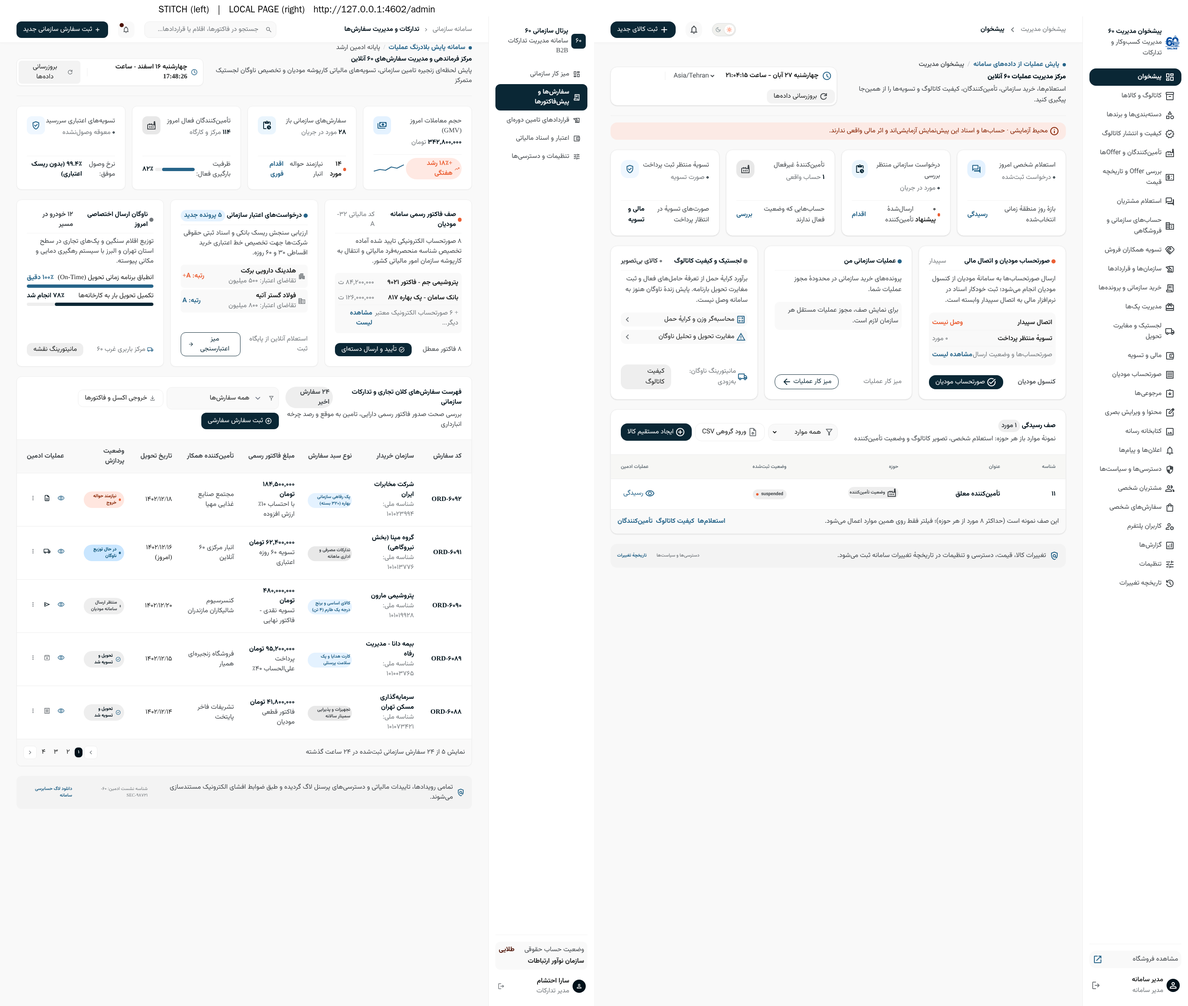
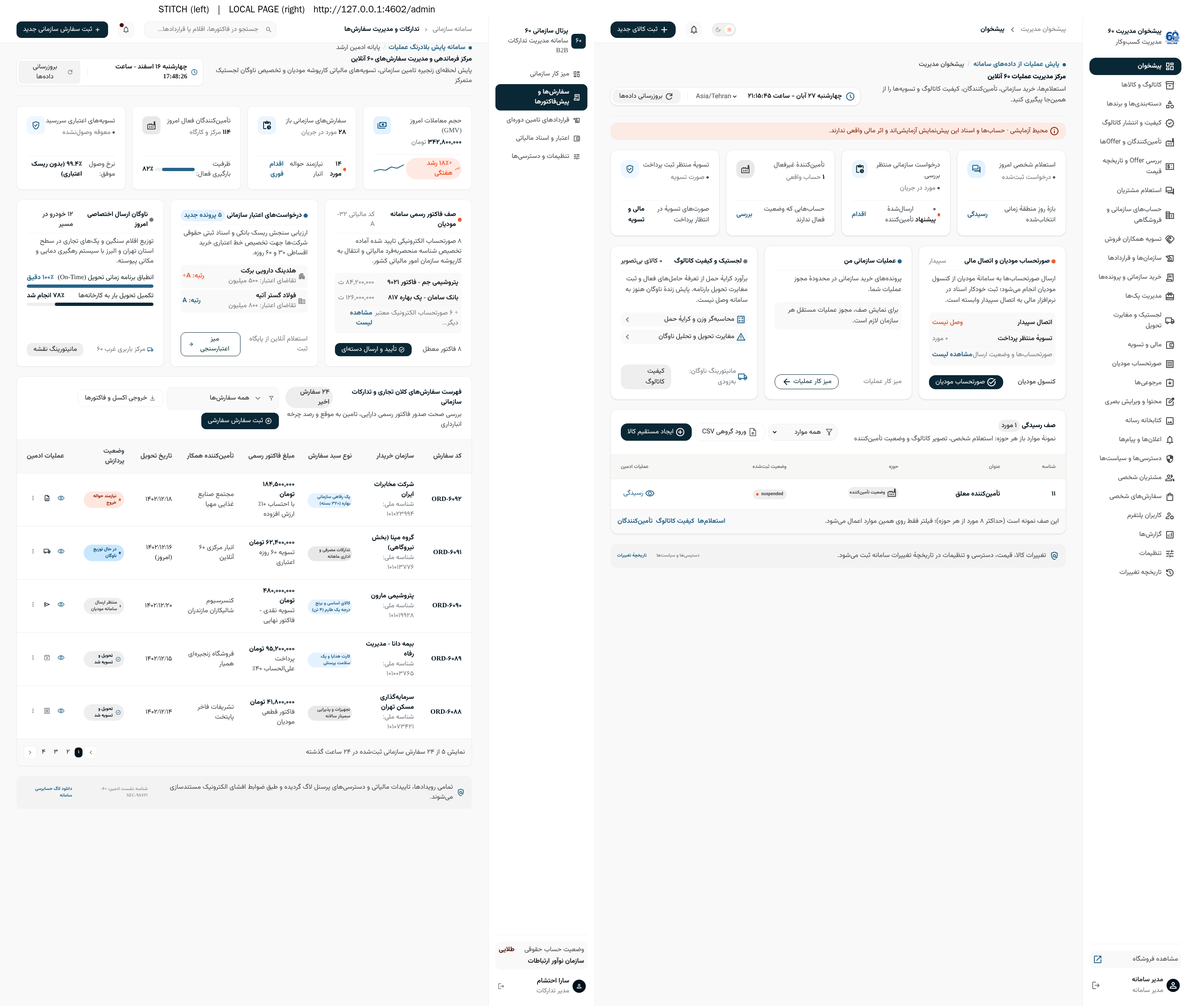
feat(admin): /admin/logistics analytics shell (36/38) over real carrier tariffs; E.md evidence + notes
Claude-Session: https://claude.ai/code/session_013GiGkgdKG9YqrG8eBeSx1H

Changed region(s): [[0.9062, 0.0311, 1.0, 0.5918]]

diff --git a/frontend/src/components/admin/AdminLogistics.tsx b/frontend/src/components/admin/AdminLogistics.tsx
@@ -1,0 +1,118 @@
+"use client";
+// Logistics analytics — Stitch screens 36 (supply-chain reports) and 38 (fleet error dashboard).
+// Real data: GET /admin/carriers/tariffs (carrier tariff table). Delivery-discrepancy cases are produced as
+// printable reports in the seller panel and are NOT stored by the backend, so every discrepancy/OTIF/damage
+// metric, trend and root-cause chart here is an honest «بهزودی» state — never a sample number.
+import { useEffect, useState } from "react";
+import Link from "next/link";
+import { apiRequest } from "@/lib/api";
+import { useAuth } from "@/lib/auth-context";
+import { formatPrice, toPersianNum } from "@/lib/utils";
+
+type Tariff = { id: number; provider_code: string; service_level: string; name_fa: string; base_minor: number; per_kg_minor: number;
+  transit_days_min: number; transit_days_max: number; is_active: number; supports_cod: number; max_weight_g: number | null; zones?: unknown[] };
+const LEVEL_FA: Record<string, string> = { same_day: "همان روز", express: "سریع", economy: "اقتصادی" };
+const Icon = ({ name, className = "" }: { name: string; className?: string }) => <span aria-hidden="true" className={`material-symbols-outlined ${className}`}>{name}</span>;
+const card = "rounded-xl border border-st-surface-container bg-st-surface-container-lowest p-st-space-lg shadow-sm";
+const Soon = ({ children }: { children: React.ReactNode }) => <span className="inline-flex items-center gap-1 rounded-full bg-st-surface-container-high px-2 py-0.5 text-st-label-sm font-bold text-st-on-surface-variant"><Icon name="hourglass_top" className="text-[14px]" />{children}</span>;
+
+export default function AdminLogistics() {
+  const { token } = useAuth();
+  const [tariffs, setTariffs] = useState<Tariff[] | null>(null), [err, setErr] = useState<string | null>(null), [retry, setRetry] = useState(0);
+  useEffect(() => {
+    if (!token) return;
+    let off = false; setTariffs(null); setErr(null);
+    apiRequest<{ tariffs: Tariff[] }>("/admin/carriers/tariffs", { token, cache: "no-store" })
+      .then((r) => { if (!off) setTariffs(Array.isArray(r.tariffs) ? r.tariffs : []); })
+      .catch((e: unknown) => { if (!off) setErr(e instanceof Error ? e.message : "دریافت تعرفهها ناموفق بود."); });
+    return () => { off = true; };
+  }, [token, retry]);
+  const active = tariffs?.filter((t) => t.is_active) ?? [];
+  const carriers = new Set(active.map((t) => t.provider_code));
+  const kpis = [
+    { t: "تعرفههای فعال حامل", v: tariffs ? toPersianNum(active.length) : "…", u: "تعرفه", i: "receipt_long", tone: "bg-st-secondary-fixed/50 text-st-secondary", foot: <span className="text-st-on-surface-variant">از {tariffs ? toPersianNum(tariffs.length) : "…"} تعرفهٔ ثبتشده</span> },
+    { t: "حاملهای دارای تعرفه", v: tariffs ? toPersianNum(carriers.size) : "…", u: "حامل", i: "local_shipping", tone: "bg-st-primary-fixed/40 text-st-primary-container", foot: <Link href="/logistics/estimate" className="font-bold text-st-secondary hover:underline">محاسبهگر کرایه</Link> },
+    { t: "نرخ مغایرت بارنامه و آسیب", v: "—", u: "", i: "rule", tone: "bg-st-surface-container-high text-st-on-surface-variant", foot: <Soon>بهزودی — ثبت پرونده در سرور</Soon> },
+    { t: "تحویل سالم و بهموقع (OTIF)", v: "—", u: "", i: "verified", tone: "bg-st-tertiary-fixed/60 text-st-on-tertiary-fixed-variant", foot: <Soon>بهزودی</Soon> },
+  ];
+  return <div className="flex w-full flex-col gap-st-space-lg text-base">
+    <div className="flex flex-col justify-between gap-st-space-md rounded-xl border border-st-surface-container bg-st-surface-container-lowest p-st-space-lg shadow-sm lg:flex-row lg:items-start">
+      <div className="flex items-start gap-st-space-sm">
+        <div className="flex h-10 w-10 shrink-0 items-center justify-center rounded-xl bg-st-primary-container text-st-on-primary"><Icon name="monitoring" /></div>
+        <div className="flex flex-col gap-st-space-xs">
+          <div className="flex flex-wrap items-center gap-st-space-sm"><h1 className="font-black text-st-primary">تحلیل عملکرد لجستیک و نرخ مغایرت تحویل</h1><Soon>تحلیل خودکار بهزودی</Soon></div>
+          <p className="max-w-3xl text-st-on-surface-variant">تعرفههای حاملها از سامانه خوانده میشود. گزارشهای مغایرت تحویل فعلاً در پنل فروشنده بهصورت PDF ساخته میشوند و در سرور ذخیره نمیشوند؛ شاخصها و نمودارهای مغایرت پس از ثبت پروندهها فعال میشوند.</p>
+        </div>
+      </div>
+      <div className="flex flex-wrap items-center gap-st-space-sm">
+        <button type="button" onClick={() => setRetry((x) => x + 1)} className="flex items-center gap-st-space-xs rounded-xl border border-st-surface-container px-st-space-md py-2 text-st-on-surface hover:bg-st-surface"><Icon name="refresh" className="text-[18px] text-st-outline" />بروزرسانی</button>
+        <Link href="/logistics/estimate" className="flex items-center gap-st-space-xs rounded-xl bg-st-primary-container px-st-space-md py-2 text-st-on-primary hover:bg-st-secondary"><Icon name="calculate" className="text-[18px]" />محاسبهگر وزن و کرایه</Link>
+      </div>
+    </div>
+
+    <section aria-label="شاخصهای لجستیک" className="grid grid-cols-1 gap-st-space-md md:grid-cols-2 xl:grid-cols-4">
+      {kpis.map((k) => <div key={k.t} className={`${card} flex flex-col justify-between`}>
+        <div className="flex items-start justify-between">
+          <div className="flex flex-col gap-st-space-xs"><span className="text-st-on-surface-variant">{k.t}</span>
+            <div className="flex items-baseline gap-st-space-xs"><span className="text-st-headline-lg font-extrabold text-st-primary">{k.v}</span><span className="text-st-outline">{k.u}</span></div></div>
+          <div className={`flex h-11 w-11 items-center justify-center rounded-xl ${k.tone}`}><Icon name={k.i} className="text-[24px]" /></div>
+        </div>
+        <div className="mt-st-space-md flex items-center justify-between border-t border-st-surface-container-low pt-st-space-sm text-st-label-md">{k.foot}</div>
+      </div>)}
+    </section>
+
+    <div className="grid grid-cols-1 gap-st-space-md lg:grid-cols-12">
+      <section className={`${card} lg:col-span-7`} aria-labelledby="trend-t">
+        <div className="flex items-start justify-between"><div><h2 id="trend-t" className="font-bold text-st-primary">روند هفتگی نرخ مغایرت و انطباق SLA</h2><p className="text-st-label-md text-st-on-surface-variant">مقایسهٔ نرخ مغایرت بارنامه با سقف مجاز</p></div><Soon>بهزودی</Soon></div>
+        <div className="mt-st-space-md flex h-56 flex-col items-center justify-center gap-st-space-xs rounded-xl border border-dashed border-st-outline-variant bg-st-surface-container-low text-center text-st-on-surface-variant">
+          <Icon name="bar_chart" className="text-[36px] text-st-outline" /><span>دادهای برای رسم روند وجود ندارد.</span><span className="text-st-label-md">پروندههای مغایرت هنوز در سامانه ثبت نمیشوند.</span></div>
+      </section>
+      <section className={`${card} lg:col-span-5`} aria-labelledby="cause-t">
+        <div className="flex items-start justify-between"><div><h2 id="cause-t" className="font-bold text-st-primary">توزیع ساختار علل مغایرت و آسیب</h2><p className="text-st-label-md text-st-on-surface-variant">کسری، آسیبدیده، اشتباه ارسالی، مازاد</p></div><Soon>بهزودی</Soon></div>
+        <div className="mt-st-space-md flex items-center gap-st-space-lg">
+          <div className="relative flex h-36 w-36 shrink-0 items-center justify-center rounded-full border-[14px] border-st-surface-container"><span className="text-center text-st-label-md text-st-outline">بدون داده</span></div>
+          <ul className="flex flex-1 flex-col gap-st-space-xs">{["کسری محموله", "آسیبدیدگی فیزیکی", "اشتباه ارسالی", "مازاد"].map((x) =>
+            <li key={x} className="flex items-center justify-between rounded-lg bg-st-surface-container-low px-st-space-sm py-st-space-xs"><span className="flex items-center gap-1"><span className="h-2.5 w-2.5 rounded-full bg-st-outline-variant" />{x}</span><b className="text-st-outline">—</b></li>)}</ul>
+        </div>
+      </section>
+    </div>
+
+    <section className={card} aria-labelledby="flow-t">
+      <div className="flex items-center gap-st-space-sm"><div className="flex h-10 w-10 items-center justify-center rounded-xl bg-st-primary text-st-on-primary"><Icon name="route" /></div>
+        <div><h2 id="flow-t" className="font-bold text-st-primary">جریان فعلی اسناد لجستیک</h2><p className="text-st-label-md text-st-on-surface-variant">آنچه امروز در سامانه کار میکند</p></div></div>
+      <div className="mt-st-space-md grid grid-cols-1 gap-st-space-md md:grid-cols-3">
+        {[["description", "حوالهٔ خروج و بارنامه (A4)", "فروشنده از «ارسال سفارشها» در پنل فروش، برگهٔ رسمی را از برچسب مرسوله چاپ میکند."],
+          ["fact_check", "برگهٔ تحویل راننده", "چکلیست موبایلی اقلام، تماس با گیرنده و بارکد رهگیری؛ وضعیت را در سرور تغییر نمیدهد."],
+          ["report_problem", "پروندهٔ مغایرت تحویل", "شمارش تحویل، علت مغایرت و تصویر بارنامه → صورتجلسهٔ PDF. ذخیرهٔ سروری و تحلیل: بهزودی."]].map(([i, t, d]) =>
+          <div key={t} className="flex flex-col gap-st-space-xs rounded-xl bg-st-surface-container-low p-st-space-md"><span className="flex items-center gap-st-space-xs font-bold text-st-primary"><Icon name={i} className="text-st-secondary" />{t}</span><p className="text-st-label-md leading-6 text-st-on-surface-variant">{d}</p></div>)}
+      </div>
+    </section>
+
+    <section className="flex flex-col overflow-hidden rounded-xl border border-st-surface-container bg-st-surface-container-lowest shadow-sm" aria-labelledby="tariff-t" aria-busy={!tariffs && !err}>
+      <div className="flex flex-col justify-between gap-st-space-sm border-b border-st-surface-container p-st-space-lg sm:flex-row sm:items-center">
+        <div><h2 id="tariff-t" className="font-extrabold text-st-primary">جدول تعرفهها و سطح خدمت حاملها</h2><p className="text-st-label-md text-st-on-surface-variant">مبنای برآورد کرایه در محاسبهگر و صدور برچسب ارسال (قیمتها پیش از حاشیه و هزینههای جانبی)</p></div>
+        {tariffs && <span className="rounded-full bg-st-surface-container px-2 py-0.5 font-bold text-st-on-surface-variant">{toPersianNum(tariffs.length)} تعرفه</span>}
+      </div>
+      {err ? <div role="alert" className="flex flex-col items-start gap-st-space-sm p-st-space-lg"><b className="text-st-error">تعرفهها دریافت نشد</b><p className="text-st-on-surface-variant">{err}</p>
+        <button type="button" onClick={() => setRetry((x) => x + 1)} className="rounded-xl border border-st-surface-container px-st-space-md py-st-space-xs">تلاش دوباره</button></div>
+        : <div className="overflow-x-auto"><table className="w-full border-collapse text-right">
+          <thead><tr className="border-b border-st-surface-container bg-st-surface text-st-on-surface-variant">
+            {["حامل و سرویس", "سطح خدمت", "کرایهٔ پایه", "هر کیلوگرم", "زمان تحویل", "مناطق ویژه", "پرداخت در محل", "وضعیت"].map((h) => <th key={h} className="px-st-space-md py-st-space-md font-bold">{h}</th>)}</tr></thead>
+          <tbody className="divide-y divide-st-surface-container">
+            {!tariffs ? <tr><td colSpan={8} role="status" className="px-st-space-lg py-st-space-xl text-center text-st-on-surface-variant">در حال دریافت تعرفهها…</td></tr>
+              : tariffs.length === 0 ? <tr><td colSpan={8} className="px-st-space-lg py-st-space-xl text-center text-st-on-surface-variant">تعرفهای ثبت نشده است.</td></tr>
+              : tariffs.map((t) => <tr key={t.id} className="transition-colors hover:bg-st-surface/60">
+                <td className="px-st-space-md py-st-space-md"><div className="flex items-center gap-st-space-sm"><span className="flex h-9 w-9 items-center justify-center rounded-lg bg-st-surface-container text-st-primary"><Icon name="local_shipping" className="text-[20px]" /></span>
+                  <div className="flex flex-col"><b className="text-st-primary">{t.name_fa}</b><span className="text-st-label-sm text-st-outline" dir="ltr">{t.provider_code}</span></div></div></td>
+                <td className="px-st-space-md py-st-space-md">{LEVEL_FA[t.service_level] ?? t.service_level}</td>
+                <td className="px-st-space-md py-st-space-md font-bold text-st-primary">{formatPrice(t.base_minor)}</td>
+                <td className="px-st-space-md py-st-space-md">{formatPrice(t.per_kg_minor)}</td>
+                <td className="px-st-space-md py-st-space-md">{t.transit_days_max === 0 ? "همان روز" : `${toPersianNum(t.transit_days_min)} تا ${toPersianNum(t.transit_days_max)} روز`}</td>
+                <td className="px-st-space-md py-st-space-md text-st-on-surface-variant">{toPersianNum(t.zones?.length ?? 0)} منطقه</td>
+                <td className="px-st-space-md py-st-space-md">{t.supports_cod ? <Icon name="check_circle" className="text-[20px] text-st-secondary" /> : <span className="text-st-outline">—</span>}</td>
+                <td className="px-st-space-md py-st-space-md"><span className={`rounded-full px-st-space-sm py-1 text-st-label-sm font-bold ${t.is_active ? "bg-st-secondary-fixed/60 text-st-secondary" : "bg-st-surface-container text-st-on-surface-variant"}`}>{t.is_active ? "فعال" : "غیرفعال"}</span></td>
+              </tr>)}
+          </tbody></table></div>}
+    </section>
+  </div>;
+}

diff --git a/frontend/src/components/admin/AdminShell.tsx b/frontend/src/components/admin/AdminShell.tsx
@@ -44,7 +44,7 @@ export function AdminShell({children}:{children:React.ReactNode}) {
     <div className="flex items-center justify-between gap-st-space-sm px-st-space-xs">
      <Link href="/admin" onClick={go} className="flex items-center gap-st-space-sm">
       <span className="flex h-9 w-9 items-center justify-center overflow-hidden rounded-lg bg-st-surface-container-lowest"><NextImage src="/brand/60online-mark.png" width={36} height={34} alt="" unoptimized/></span>
-      <span className="flex flex-col"><span className="font-bold text-st-primary">پیشخوان مدیریت ۶۰</span><span className="text-st-on-surface-variant">مدیریت کسبوکار و تدارکات</span></span>
+      <span className="flex flex-col"><span className="font-bold text-st-primary">پیشخوان مدیریت ۶۰</span><span className="text-st-on-surface-variant">مدیریت کسبوکار</span></span>
      </Link>
      <button onClick={()=>setOpen(false)} aria-label="بستن منو" className="flex h-9 w-9 items-center justify-center rounded-xl bg-st-surface text-st-on-surface-variant lg:hidden"><Icon name="close" className="text-[20px]"/></button>
     </div>

diff --git a/frontend/src/app/admin/logistics/page.tsx b/frontend/src/app/admin/logistics/page.tsx
@@ -1,0 +1,3 @@
+import AdminLogistics from "@/components/admin/AdminLogistics";
+export const metadata={title:"لجستیک و مغایرت تحویل | 60Online",robots:{index:false,follow:false}};
+export default function Page(){return <AdminLogistics/>;}

diff --git a/docs/design/stitch-impl-2026-11-18/E.md b/docs/design/stitch-impl-2026-11-18/E.md
@@ -1,0 +1,48 @@
+# Group E — admin dashboard + logistics documents (Stitch faithful rebuild, 2026-11-18)
+
+Branch `redesign/e-admin-logistics` (base 1aa1dba, foundation c55e50b). Evidence: `E/NN-*.png` = `compare.sh` output
+(Stitch render left, local page right), captured from `next dev -p 4601` against the backend on :4600 using a copy of
+the seeded TEST DB (`/tmp/stack-4600/e2e.db` ← `/tmp/e2e-template.db`).
+
+## How screenshots were authenticated (screenshot tooling only — no app code involved)
+A local proxy (`/tmp/eproxy/p.js`, not committed) sat in front of `next dev`:
+- strips the CSP header (`next dev` needs `eval`, the site CSP forbids it — same as group B);
+- logs in with a TEST account on every HTML request and pre-sets `localStorage.60online_token` (the site's own session key) and
+  `60online_theme` (light/dark): admin = seeded `admin@60online.ir`; seller = a screenshot fixture `fixture.seller@test.local`;
+- forwards `/api/*` straight to Flask (as nginx does in production). The Next `/api/v1/[...path]` route in this repo is a
+  read-only preview proxy that answers POST with `preview_read_only`, so the calculator's `POST /shipping/quote` needs this;
+- optional `?__inj=<name>` appends a small script that clicks the document button, fills the calculator destination
+  (اصفهان/اصفهان) or attaches a generated grey PNG labelled «TEST IMAGE» for the zoom view (screen 34).
+- Seller documents need a shipment. The test DB has none, so `/tmp/efix/fixture.py` (not committed) created, in the DB **copy only**,
+  a test seller «فروشگاه آزمایشی», two products «کالای آزمایشی الف/ب», one checkout and one shipment through the real API.
+
+| Screen | Route / component | Status | Notes | Data source |
+|---|---|---|---|---|
+| 18 داشبورد ادمین (1440) | `/admin` → `components/admin/AdminShell.tsx`, `AdminDashboard.tsx` | MATCH (layout) / PARTIAL (content) | w-64 white sidebar with Material icons + active navy pill, 64px top bar (breadcrumb, theme, notifications, primary CTA), command-centre header with snapshot clock + refresh, 4 KPI cards (icon tile, footer row), 3 bento panels, table card with filter/CTA + footer bar, audit bar — same tokens/spacing/radii. Content is real: KPIs = `personal_today`, `org_waiting` (+`quotes_submitted`), `suppliers_inactive`, `settlements_pending`; panels = Moadian/Sepidar status, my org operations, logistics links + `missing_images`; table = attention queue. Not shown (no backend): GMV + sparkline, fleet on-time %, credit ratings, company orders table, search box. Sidebar keeps all 26 admin sections (Stitch shows 5). | `GET /admin/dashboard` |
+| 02 داشبورد ادمین dark | `/admin` (theme=dark) | PARTIAL | Same markup; on this branch `st-*` are static hex colours, so dark mode only flips a few globals (inputs). Becomes dark automatically once group A's `st-*` CSS variables (`html[data-theme=dark]`) are merged. | same |
+| 54 محاسبهگر وزن و هزینه حمل | `/logistics/estimate` (new) → `components/logistics/ShippingEstimator.tsx` | MATCH (layout) / PARTIAL (features) | Header band with blurs + reference card + reset; 5/7 split: steps ۱–۳ (package dims/weight/flags + qty stepper & chips, origin/destination, strategy + service levels + COD/insurance), weight & CBM KPI tiles, fleet card, tariff breakdown with total box, dark action bar, 4-tile strip. **Costs are real** (the earlier note was wrong: `POST /api/v1/shipping/quote` exists, public, buyer-facing price). Weight/CBM/volumetric are arithmetic on user input. «بهزودی»: catalog-product mode, multi-destination parts, fleet recommendation, dispatch schedule, «ثبت در پیشفاکتور». Stitch claims (72h guarantee, 12 hubs, 20bn insurance, ستاد) replaced by true statements. | `POST /shipping/quote` (active carrier tariffs) |
+| 03 حواله خروج انبار و بارنامه A4 | `/sell` → «ارسال سفارشها» → «حوالهٔ خروج و بارنامه» → `WaybillDoc` in `components/seller/ShipmentSheets.tsx` | MATCH (layout) / PARTIAL (fields) | Command strip (breadcrumb, order chip, print/PDF/close), status banner, A4 paper: logo/title/number block, reference bar, 4 party boxes, navy items table, 3-tile totals, notes, 3 signature boxes, Code128 footer. Print = same paper via `PrintSheet` (browser «Save as PDF»). The two old buttons (exit slip, waybill) are merged into this one document, like Stitch. Not in data → left as blanks to fill by hand: warehouse keeper, driver name/plate, seal number, per-item physical state, gross weight with pallet. QR replaced by the real Code128 of the tracking number. | shipment label (`GET /supplier/shipments`) + `GET /supplier/orders/{id}` items |
+| 01 برگه تحویل راننده (light) | `/sell` → «نسخهٔ راننده» → `DriverSheet` | MATCH (layout) / PARTIAL | Full-screen mobile sheet: app bar, carrier/status card, barcode card + order strip, receiver card with big call button, address + copy, 3 cargo tiles, checklist, «ثبت مغایرت» row (opens the discrepancy case), fixed bottom status bar. No driver identity/plate/seal/GPS/digital signature in backend → not shown; the bottom bar shows checklist progress instead of «تأیید نهایی». Checklist is page-local (stated on the sheet). | same |
+| 04 برگه تحویل راننده dark | same (theme=dark) | PARTIAL | Pending group A's `st-*` dark variables (see 02). | same |
+| 31 گزارش مغایرت بارنامه در برابر سفارش (desktop) | `/sell` → «ثبت مغایرت» → `DiscrepancySheet` | MATCH (layout) / PARTIAL | Sticky case header (breadcrumb, case no, waybill, flagged chip, close/PDF/print), right column: case info, physical documents (photo upload), per-item registration with ± stepper + reason + note, dark summary; left column: live A4 «صورتجلسهٔ مغایرت» preview (also what prints). Rial loss estimate, QC decision text, inspector/driver identities and stored case number are not in data → omitted; case no. = `DR-<fulfillment order id>`. | same; nothing written to server |
+| 37 پرونده مغایرت — اپ سرپرست انبار (mobile) | same component at 390px | MATCH (layout) / PARTIAL | Single column + fixed bottom «مشاهدهٔ صورتجلسه و چاپ A4» + «بستن». Driver card / KPI (نرخ مغایرت، تأخیر، رضایت) and QC actions not shown (no data). | same |
+| 34 پاپآپ بزرگنمایی (mobile) | same → photo → «مشاهده و بزرگنمایی» | MATCH | Dark full-screen viewer: close, title + tracking, rotate, zoom ± with %, image, «ذخیرهٔ تصویر» + back. Evidence uses a generated «TEST IMAGE» PNG. «ارسال به کارتابل بازرسی» omitted (no backend). | user's own photo (client only) |
+| 38 داشبورد تحلیل خطای ناوگان + مودال | `/admin/logistics` (new) → `components/admin/AdminLogistics.tsx` | PARTIAL | Header, 4 KPI cards, trend + root-cause cards, table card in Stitch style. Discrepancy cases are not persisted, so discrepancy %, OTIF, delays, CSAT, trend, donut and the case modal are «بهزودی» empty states (no sample numbers). The table shows the real carrier tariffs instead of per-vehicle/driver performance (no fleet/driver data). | `GET /admin/carriers/tariffs` |
+| 36 گزارشهای تحلیلی زنجیره تأمین | `/admin/logistics` | PARTIAL | Same page (36 and 38 share layout). AI/alert cards replaced by a «جریان فعلی اسناد لجستیک» card describing what works today. | same |
+
+## Backend / contract notes
+- `POST /api/v1/shipping/quote` (public) works with explicit parcels `{length_mm,width_mm,height_mm,gross_weight_g,is_fragile,requires_cold_chain,quantity}`,
+  `origin/destination {province, city}`, `service_levels`, `strategy`, `cod_value_minor`, `insurance_value_minor`; returns `price_minor` (Rial; shown in Toman via `formatPrice`).
+  The calculator caps quantity at 1000 because the service expands one parcel per unit.
+- The Next `app/api/v1/[...path]` route is read-only (POST → 405 `preview_read_only`, except pack-builder). In production nginx sends `/api` to Flask,
+  so the calculator works there; in a Next-only preview it shows that error message honestly.
+- Needed for full 31/36/37/38: a backend table + API for delivery-discrepancy cases (lines, reason, photo, status) and fleet/driver data; then the analytics can be computed.
+- Seller documents still write nothing (as before).
+
+## Shared needs (group A)
+- Dark mode for 02/04 depends on A's `st-*` CSS variables. No new icons needed: every icon used is in `icons-included.txt`.
+- Admin pages no longer use `.shell/.sidebar/.topbar` from `admin.module.css` (other module classes unchanged).
+
+## Verification
+- `npx tsc --noEmit` PASS and `NEXT_FONT_GOOGLE_MOCKED_RESPONSES=/tmp/fontmock.js REVIEW_DIST_DIR=/tmp/next-e npx next build` PASS (exit 0; `/admin/logistics` and `/logistics/estimate` built), 2026-11-18. tsconfig.json / next-env.d.ts restored after the build.
+- Auth/role gate in `AdminShell` unchanged (loading → login prompt → `role!=="admin"` block). `/admin/logistics` sits under the same layout.
